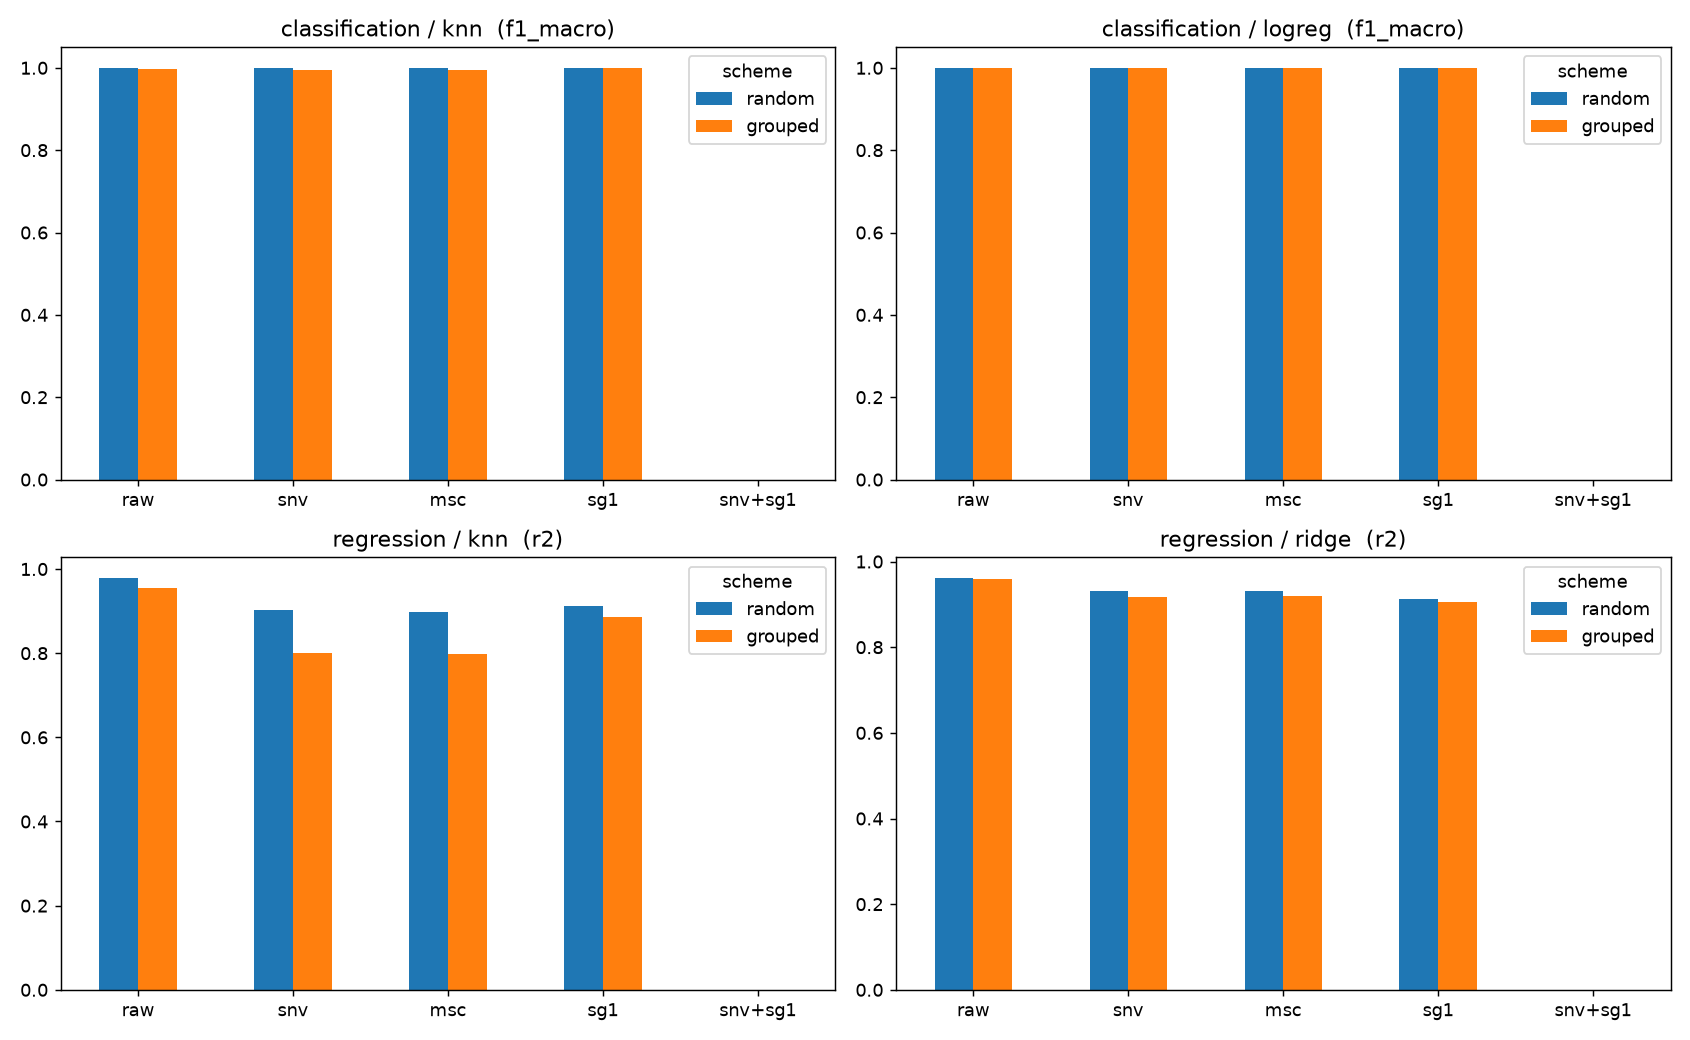
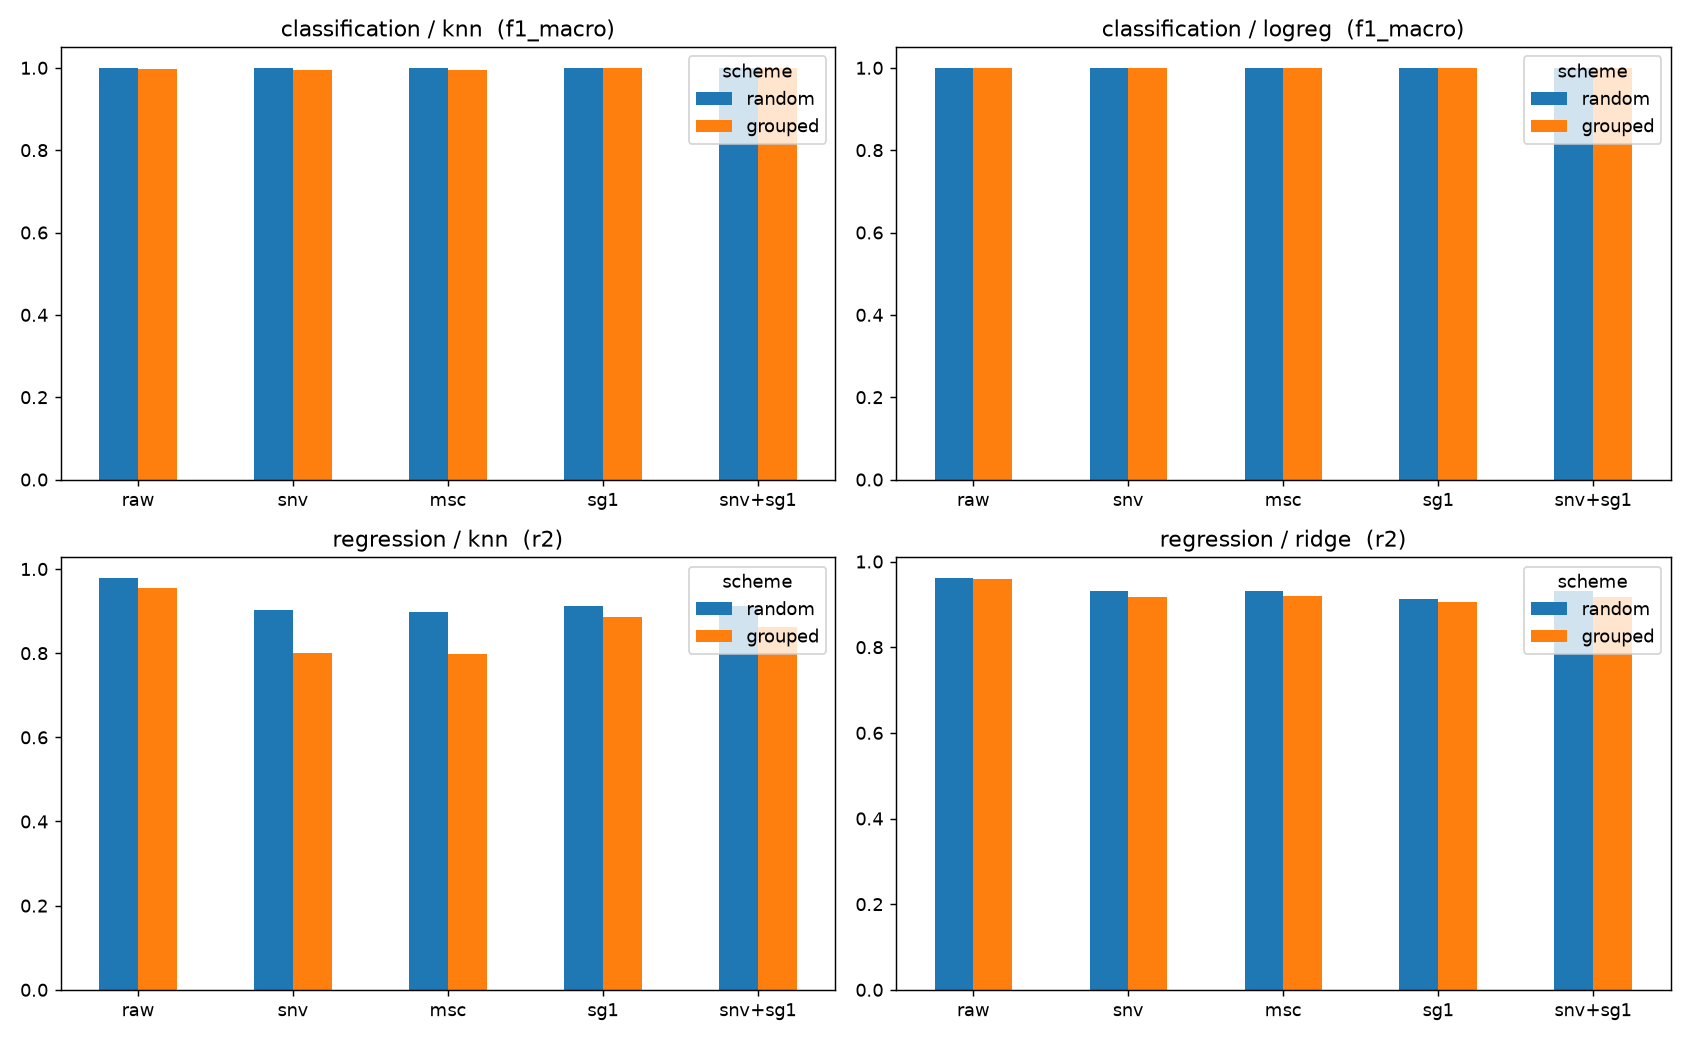
fix: stateless transformers fitted flag, fail loudly in CV; step2 leakage results

diff --git a/tests/test_validation.py b/tests/test_validation.py
@@ -1,9 +1,13 @@
 """验证工具的测试：重点钉住"分组划分无泄漏"这个契约。"""
 
 import numpy as np
+from sklearn.linear_model import LogisticRegression
+from sklearn.pipeline import make_pipeline
+from sklearn.preprocessing import StandardScaler
 
 from hsi.data.simulator import SimConfig, generate_dataset
-from hsi.validation import build_pixel_table, make_splitter
+from hsi.preprocessing import SNV, SavitzkyGolay
+from hsi.validation import build_pixel_table, evaluate, make_splitter
 
 
 def _table():
@@ -28,7 +32,8 @@ def test_grouped_split_has_no_overlap():
 def test_random_split_does_leak():
     # 反面教材：随机划分确实会让同一物体同时出现在训练集和测试集
     X, y, _, g = _table()
-    train, test = next(make_splitter("random", "classification").split(X, y, g))
+#    train, test = next(make_splitter("random", "classification").split(X, y, g))
+    train, test = next(make_splitter("random", "classification").split(X, y))
     assert len(set(g[train]) & set(g[test])) > 0
 
 
@@ -36,3 +41,11 @@ def test_unknown_scheme_raises():
     import pytest
     with pytest.raises(ValueError):
         make_splitter("bogus", "classification")
+
+def test_nested_pipeline_with_stateless_steps_scores_finite():
+    # 守护：嵌套 Pipeline + 无状态变换器不能悄悄产生 NaN
+    X, y, _, g = _table()
+    inner = make_pipeline(SNV(), SavitzkyGolay(11, 2, deriv=1))
+    pipe = make_pipeline(inner, StandardScaler(), LogisticRegression(max_iter=500))
+    scores = evaluate(pipe, X, y, g, "grouped", "classification", "f1_macro", n_jobs=1)
+    assert np.isfinite(scores).all()

diff --git a/src/hsi/validation.py b/src/hsi/validation.py
@@ -85,9 +85,13 @@ def evaluate(estimator, X, y, groups, scheme: str, task: str, scoring: str,
     """
     对 estimator（通常是 Pipeline）做交叉验证，返回每一折的得分数组。
     scheme="grouped" 时会自动断言没有泄漏。
+    error_score="raise"：任何一折出错都直接抛异常，杜绝"静默变成 NaN"。
     """
     splitter = make_splitter(scheme, task, n_splits, seed)
-    splits = list(splitter.split(X, y, groups))  # 先生成所有划分，便于检查
+    # random 方案的划分器不使用 groups，传了会产生警告，所以只在 grouped 时传
+    split_groups = groups if scheme == "grouped" else None
+    splits = list(splitter.split(X, y, split_groups))
     if scheme == "grouped":
         assert_no_group_overlap(splits, groups)
-    return cross_val_score(estimator, X, y, cv=splits, scoring=scoring, n_jobs=n_jobs)
+    return cross_val_score(estimator, X, y, cv=splits, scoring=scoring,
+                           n_jobs=n_jobs, error_score="raise")

diff --git a/scripts/exp_preprocessing.py b/scripts/exp_preprocessing.py
@@ -63,8 +63,10 @@ def main() -> None:
             for scheme in ("random", "grouped"):
                 pipe = make_pipeline(prep_fn(), StandardScaler(), model_fn())
                 scores = evaluate(pipe, Xt, yt, gt, scheme, task, SCORING[task])
-                rows.append(dict(task=task, model=model_name, prep=prep_name,
-                                 scheme=scheme, mean=scores.mean(), std=scores.std()))
+                #rows.append(dict(task=task, model=model_name, prep=prep_name,
+                #                 scheme=scheme, mean=scores.mean(), std=scores.std()))
+                rows.append({"task": task, "model": model_name, "prep": prep_name,
+                             "scheme": scheme, "mean": scores.mean(), "std": scores.std()})            
                 print(f"{task:14s} {model_name:7s} {prep_name:8s} {scheme:8s} "
                       f"{scores.mean():.3f} ± {scores.std():.3f}")
 

diff --git a/src/hsi/preprocessing.py b/src/hsi/preprocessing.py
@@ -74,6 +74,7 @@ class SNV(BaseEstimator, TransformerMixin):
     """SNV 的 sklearn 封装。无状态：fit 什么也不学。"""
 
     def fit(self, X, y=None):
+        self.n_features_in_ = _as_2d_float(X).shape[1]
         return self
 
     def transform(self, X):
@@ -127,6 +128,7 @@ class SavitzkyGolay(BaseEstimator, TransformerMixin):
             raise ValueError("window_length 不能超过波段数")
 
     def fit(self, X, y=None):
+        self.n_features_in_ = _as_2d_float(X).shape[1]
         return self
 
     def transform(self, X):
